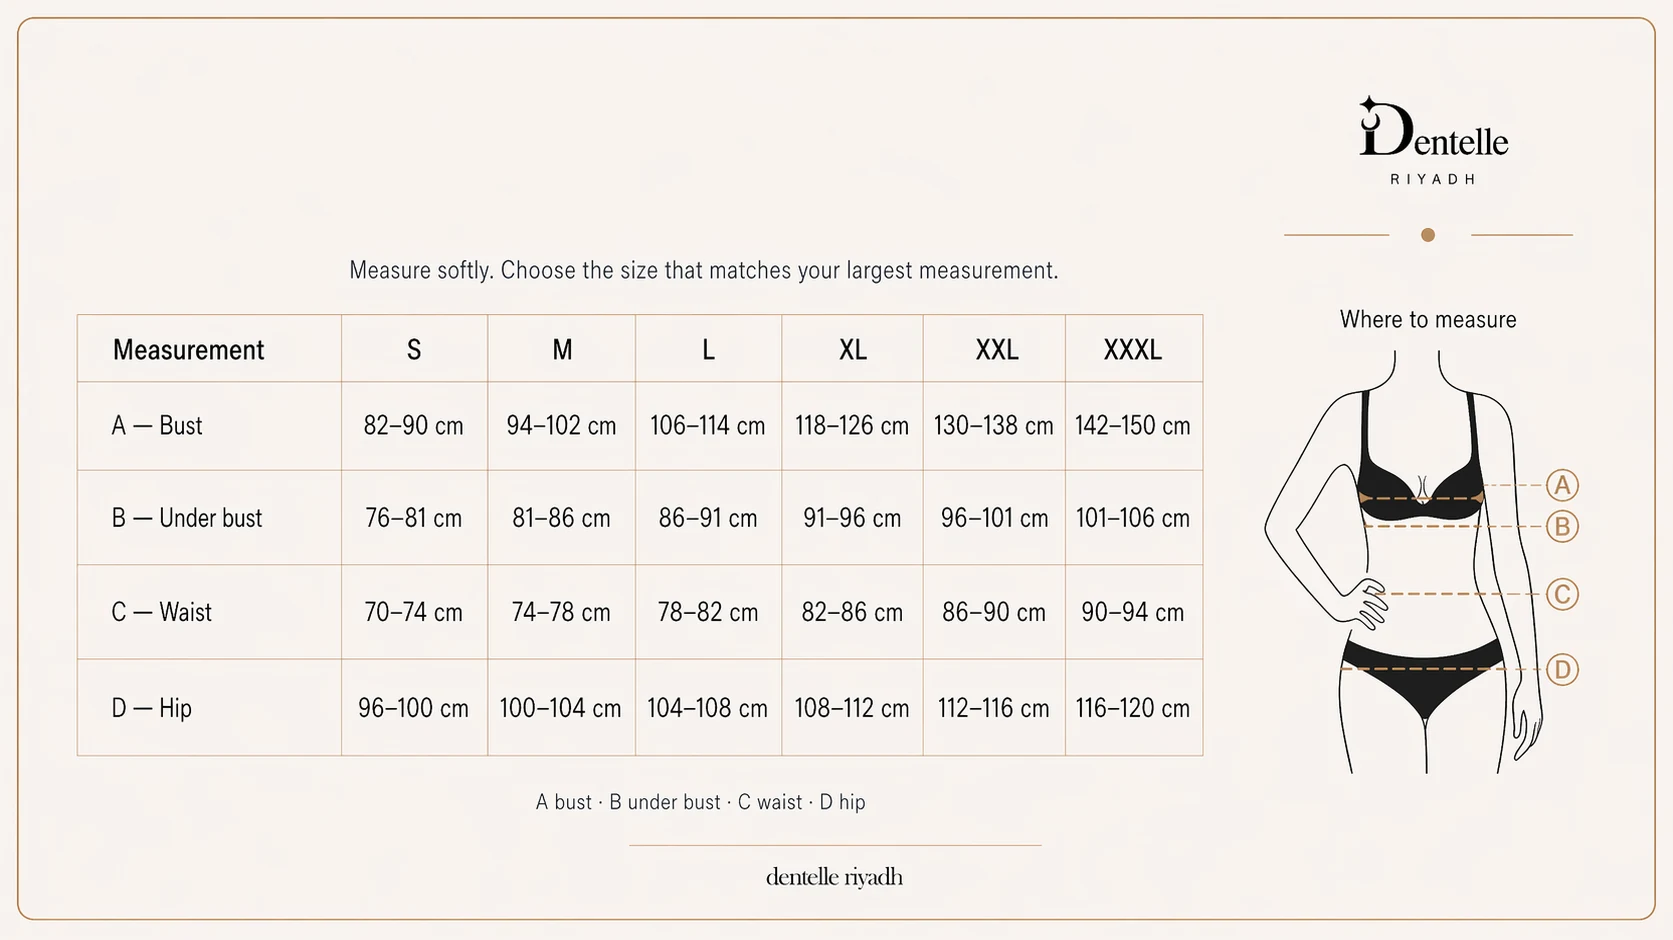
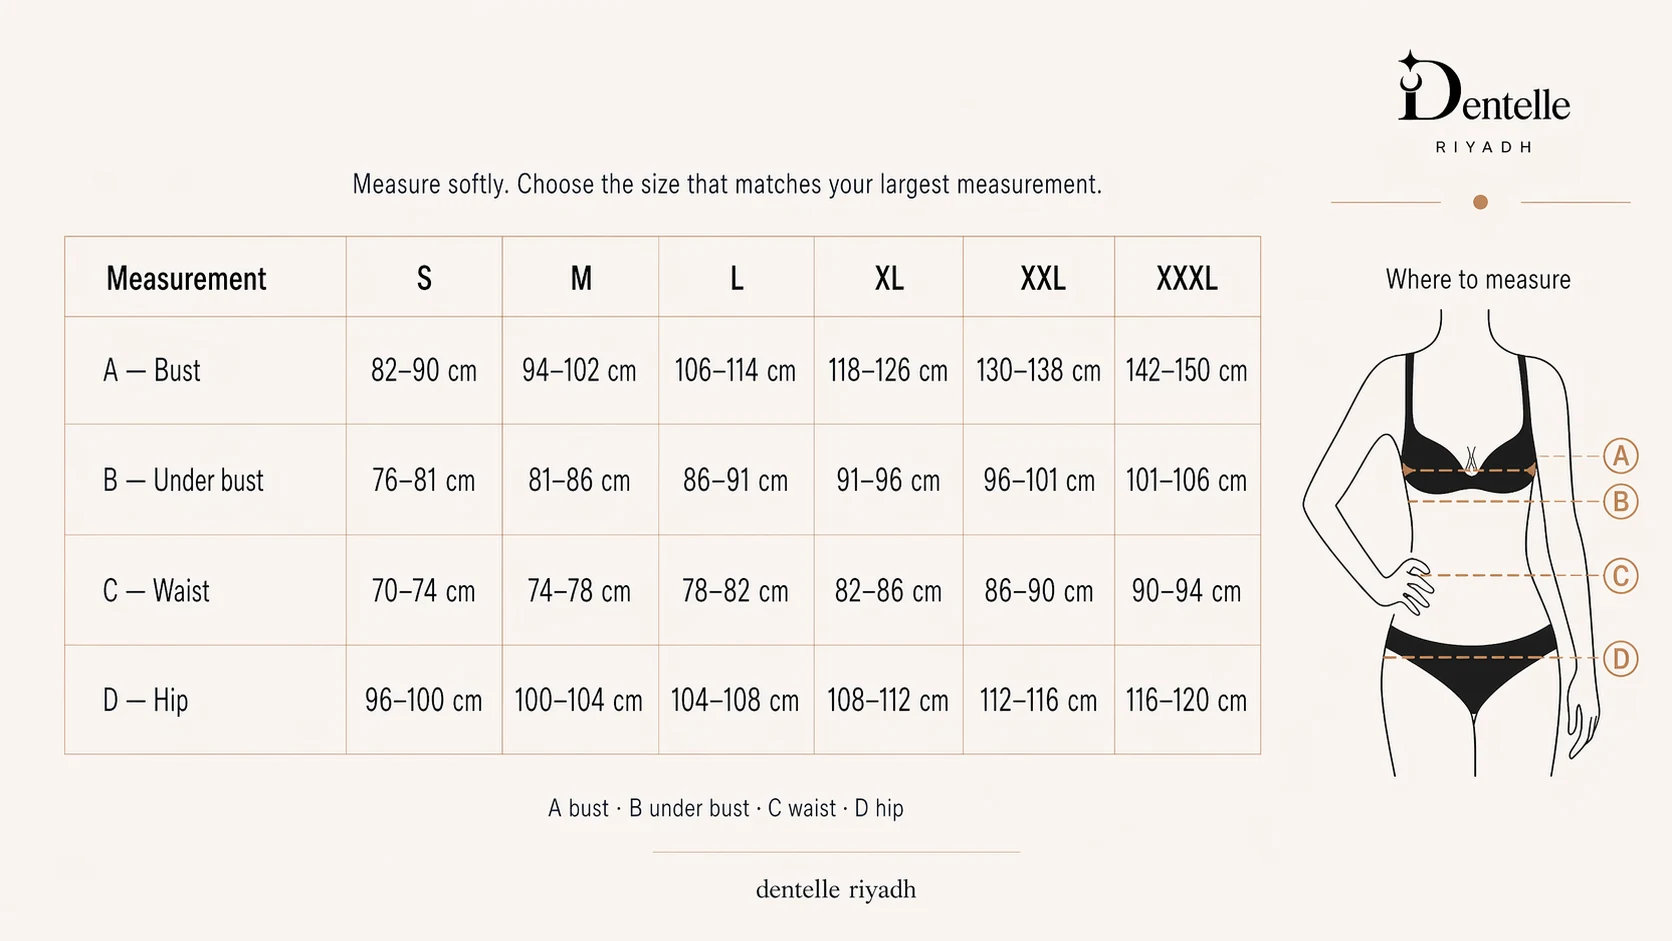
Update size-guide.webp to latest chart (borderless layout, cleaner composition)

diff --git a/product-ar.html b/product-ar.html
@@ -158,7 +158,7 @@
             </ul>
             <p>نحن ملتزمون بمساعدتك في إيجاد القطعة الأجمل والأكثر راحةً قبل إتمام عملية الشراء.</p>
             <figure class="product__sizeguide-chart">
-              <img src="size-guide.webp?v=3" alt="جدول مقاسات دانتيل الرياض" loading="lazy" />
+              <img src="size-guide.webp?v=4" alt="جدول مقاسات دانتيل الرياض" loading="lazy" />
             </figure>
             <a href="https://wa.me/966546002573?text=%D9%85%D8%B1%D8%AD%D8%A8%D8%A7%D8%8C%20%D8%A3%D9%88%D8%AF%20%D8%A7%D8%B3%D8%AA%D8%B4%D8%A7%D8%B1%D8%A9%20%D8%B4%D8%AE%D8%B5%D9%8A%D8%A9%20%D8%AD%D9%88%D9%84%20%D8%A7%D9%84%D9%85%D9%82%D8%A7%D8%B3." class="product__sizeguide-wa" target="_blank" rel="noopener">احجزي استشارة شخصية عبر واتساب ←</a>
           </div>
@@ -422,7 +422,7 @@
       </div>
     </div>
     <figure class="size-modal__chart">
-      <img src="size-guide.webp?v=3" alt="جدول مقاسات دانتيل الرياض" loading="lazy" />
+      <img src="size-guide.webp?v=4" alt="جدول مقاسات دانتيل الرياض" loading="lazy" />
     </figure>
     <div class="size-modal__footer">
       <p>تحتاجين إرشادًا شخصيًا؟ فريقنا مستعدٌ لمساعدتك.</p>

diff --git a/product.html b/product.html
@@ -161,7 +161,7 @@
             </ul>
             <p>We are dedicated to helping you find the most beautiful and comfortable piece before you complete your purchase.</p>
             <figure class="product__sizeguide-chart">
-              <img src="size-guide.webp?v=3" alt="Dentelle Riyadh Size Chart" loading="lazy" />
+              <img src="size-guide.webp?v=4" alt="Dentelle Riyadh Size Chart" loading="lazy" />
             </figure>
             <a href="https://wa.me/[phone redacted]?text=Hello%2C%20I%20would%20like%20a%20personal%20size%20consultation." class="product__sizeguide-wa" target="_blank" rel="noopener">Book a personal consultation via WhatsApp →</a>
           </div>
@@ -434,7 +434,7 @@
       </div>
     </div>
     <figure class="size-modal__chart">
-      <img src="size-guide.webp?v=3" alt="Dentelle Riyadh Size Chart" loading="lazy" />
+      <img src="size-guide.webp?v=4" alt="Dentelle Riyadh Size Chart" loading="lazy" />
     </figure>
     <div class="size-modal__footer">
       <p>Need personal guidance? Our team is ready to help you find your perfect piece.</p>

diff --git a/cart-ar.html b/cart-ar.html
@@ -279,7 +279,7 @@
       </div>
     </div>
     <figure class="size-modal__chart">
-      <img src="size-guide.webp?v=3" alt="جدول مقاسات دانتيل الرياض" loading="lazy" />
+      <img src="size-guide.webp?v=4" alt="جدول مقاسات دانتيل الرياض" loading="lazy" />
     </figure>
     <div class="size-modal__footer">
       <p>تحتاجين إرشادًا شخصيًا؟ فريقنا مستعدٌ لمساعدتك.</p>

diff --git a/cart.html b/cart.html
@@ -276,7 +276,7 @@
       </div>
     </div>
     <figure class="size-modal__chart">
-      <img src="size-guide.webp?v=3" alt="Dentelle Riyadh Size Chart" loading="lazy" />
+      <img src="size-guide.webp?v=4" alt="Dentelle Riyadh Size Chart" loading="lazy" />
     </figure>
     <div class="size-modal__footer">
       <p>Need personal guidance? Our team is ready to help you find your perfect piece.</p>

diff --git a/collection-ar.html b/collection-ar.html
@@ -269,7 +269,7 @@
       </div>
     </div>
     <figure class="size-modal__chart">
-      <img src="size-guide.webp?v=3" alt="جدول مقاسات دانتيل الرياض" loading="lazy" />
+      <img src="size-guide.webp?v=4" alt="جدول مقاسات دانتيل الرياض" loading="lazy" />
     </figure>
     <div class="size-modal__footer">
       <p>تحتاجين إرشادًا شخصيًا؟ فريقنا مستعدٌ لمساعدتك.</p>

diff --git a/collection.html b/collection.html
@@ -267,7 +267,7 @@
       </div>
     </div>
     <figure class="size-modal__chart">
-      <img src="size-guide.webp?v=3" alt="Dentelle Riyadh Size Chart" loading="lazy" />
+      <img src="size-guide.webp?v=4" alt="Dentelle Riyadh Size Chart" loading="lazy" />
     </figure>
     <div class="size-modal__footer">
       <p>Need personal guidance? Our team is ready to help you find your perfect piece.</p>

diff --git a/index-ar.html b/index-ar.html
@@ -525,7 +525,7 @@
     </div>
 
     <figure class="size-modal__chart">
-      <img src="size-guide.webp?v=3" alt="جدول مقاسات دانتيل الرياض" loading="lazy" />
+      <img src="size-guide.webp?v=4" alt="جدول مقاسات دانتيل الرياض" loading="lazy" />
     </figure>
 
     <div class="size-modal__footer">

diff --git a/index.html b/index.html
@@ -552,7 +552,7 @@
 
     <!-- Size chart image -->
     <figure class="size-modal__chart">
-      <img src="size-guide.webp?v=3" alt="Dentelle Riyadh Size Chart" loading="lazy" />
+      <img src="size-guide.webp?v=4" alt="Dentelle Riyadh Size Chart" loading="lazy" />
     </figure>
 
     <!-- Footer CTA -->

diff --git a/login-ar.html b/login-ar.html
@@ -344,7 +344,7 @@
       </div>
     </div>
     <figure class="size-modal__chart">
-      <img src="size-guide.webp?v=3" alt="جدول مقاسات دانتيل الرياض" loading="lazy" />
+      <img src="size-guide.webp?v=4" alt="جدول مقاسات دانتيل الرياض" loading="lazy" />
     </figure>
     <div class="size-modal__footer">
       <p>تحتاجين إرشادًا شخصيًا؟ فريقنا مستعدٌ لمساعدتك.</p>

diff --git a/login.html b/login.html
@@ -344,7 +344,7 @@
       </div>
     </div>
     <figure class="size-modal__chart">
-      <img src="size-guide.webp?v=3" alt="Dentelle Riyadh Size Chart" loading="lazy" />
+      <img src="size-guide.webp?v=4" alt="Dentelle Riyadh Size Chart" loading="lazy" />
     </figure>
     <div class="size-modal__footer">
       <p>Need personal guidance? Our team is ready to help you find your perfect piece.</p>

diff --git a/search-ar.html b/search-ar.html
@@ -296,7 +296,7 @@
       </div>
     </div>
     <figure class="size-modal__chart">
-      <img src="size-guide.webp?v=3" alt="جدول مقاسات دانتيل الرياض" loading="lazy" />
+      <img src="size-guide.webp?v=4" alt="جدول مقاسات دانتيل الرياض" loading="lazy" />
     </figure>
     <div class="size-modal__footer">
       <p>تحتاجين إرشادًا شخصيًا؟ فريقنا مستعدٌ لمساعدتك.</p>

diff --git a/search.html b/search.html
@@ -295,7 +295,7 @@
       </div>
     </div>
     <figure class="size-modal__chart">
-      <img src="size-guide.webp?v=3" alt="Dentelle Riyadh Size Chart" loading="lazy" />
+      <img src="size-guide.webp?v=4" alt="Dentelle Riyadh Size Chart" loading="lazy" />
     </figure>
     <div class="size-modal__footer">
       <p>Need personal guidance? Our team is ready to help you find your perfect piece.</p>